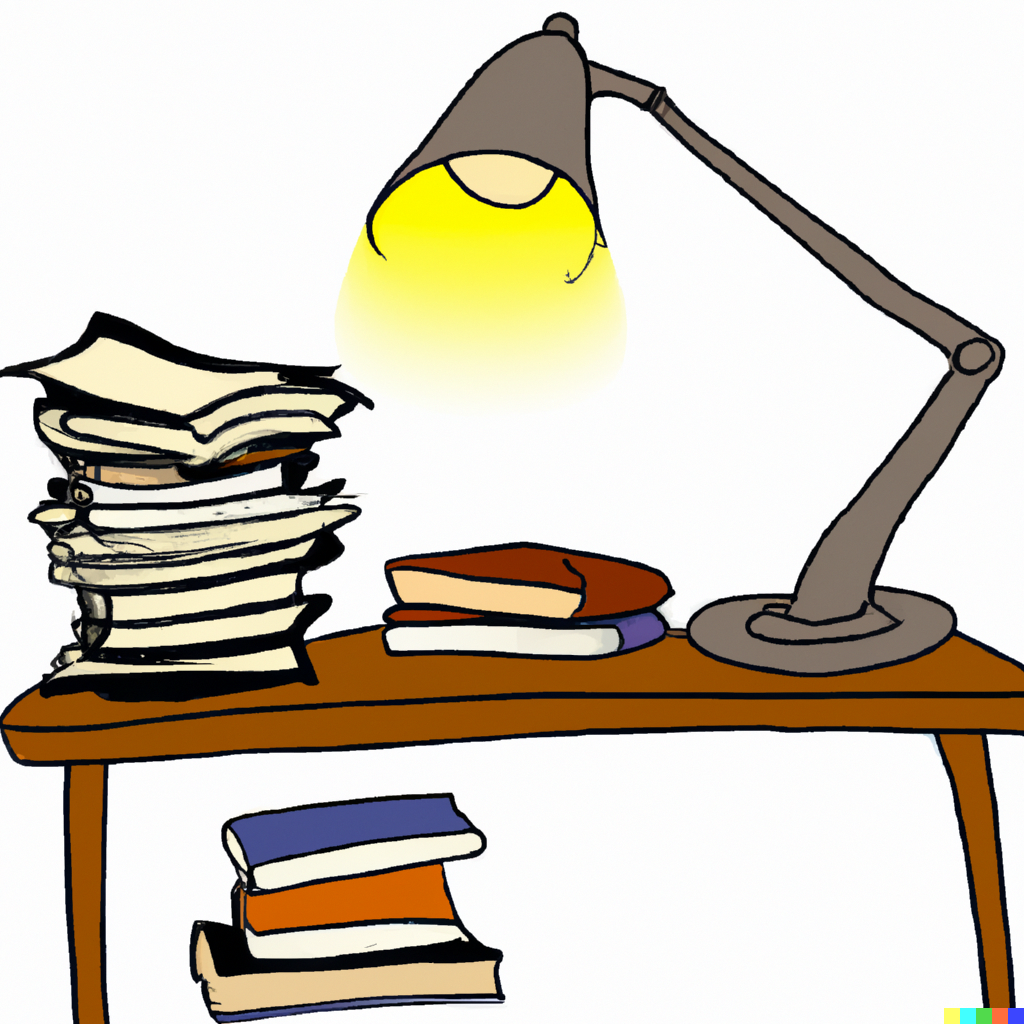
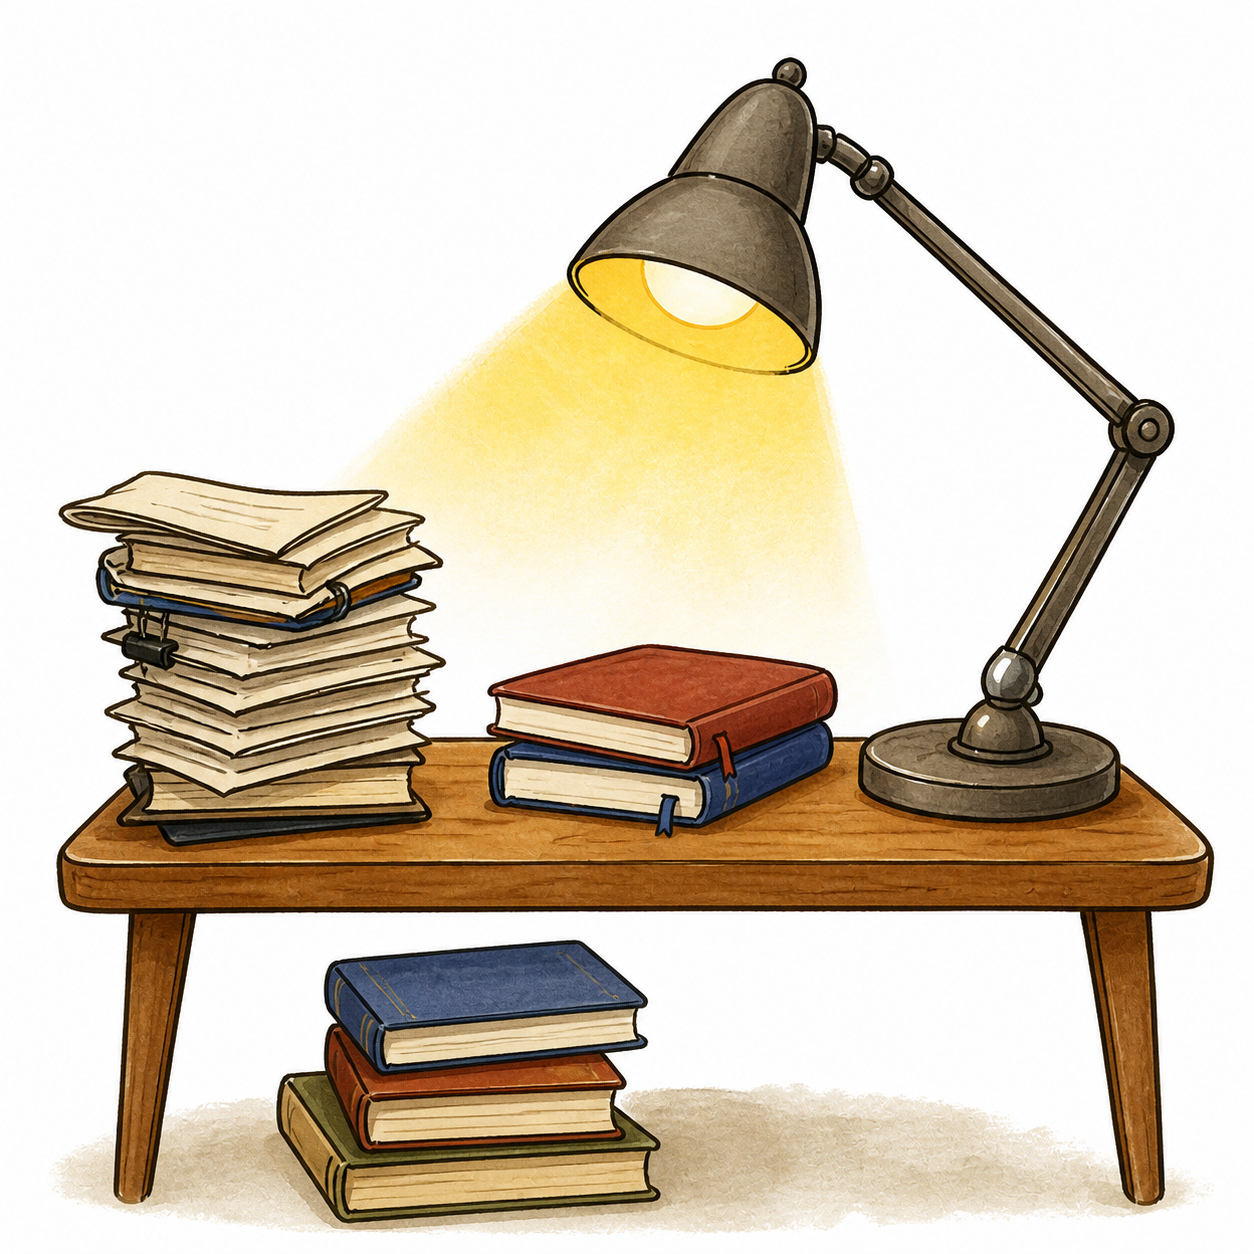
lectures 8 and 9

diff --git a/08-Futures.html b/08-Futures.html
@@ -39,7 +39,7 @@ class: center, middle, inverse, title-slide
 # Futures Contracts
 
 .pull-left[
-![](art/futures.png)
+![](art/08-image.png)
 ]
 
 .pull-right[	
@@ -197,6 +197,9 @@ class: center, middle, inverse, title-slide
 
 .pull-right[
 Tomek &amp; Kaiser, Chapters 12 &amp; 13 ("Price Discovery")
+
+Garcia, Irwin &amp; Smith (2015). [Futures Market Failure?](https://doi.org/10.1093/ajae/aau067). *American Journal of Agricultural Economics, 97*(1): 40-64.
+
 ]
     </textarea>
 <style data-target="print-only">@media screen {.remark-slide-container{display:block;}.remark-slide-scaler{box-shadow:none;}}</style>

diff --git a/09-Risk.html b/09-Risk.html
@@ -38,7 +38,7 @@ class: center, middle, inverse, title-slide
 # Uncertainty and risk
 
 .pull-left[
-![](art/risk.png)
+![](art/09-image.png)
 ]
 
 .pull-right[
@@ -309,7 +309,6 @@ Tomek &amp; Kaiser, Chapter 11 ("Government Intervention in Pricing Agricultural
 
 Norton, Alwang &amp; Masters, Chapter 14 ("Finance, Risk, and Insurance")
 
-Garcia, Irwin &amp; Smith (2015). [Futures Market Failure?](https://doi.org/10.1093/ajae/aau067). *American Journal of Agricultural Economics, 97*(1): 40-64.
 ]
 
     </textarea>

diff --git a/README.md b/README.md
@@ -42,12 +42,13 @@ The lecture slides and readings for the unit on agricultural markets.
 [Lecture 8: Futures Markets and Prices](https://davidubilava.com/agmarkets_slides/08-Futures.html)
 
 - Tomek & Kaiser, Chapters 12 & 13 ("Price Discovery")
+- Garcia, Irwin & Smith (2015). [Futures Market Failure?](https://doi.org/10.1093/ajae/aau067). *American Journal of Agricultural Economics, 97*(1): 40-64.
 
 [Lecture 9: Risk and Insurance](https://davidubilava.com/agmarkets_slides/09-Risk.html)
 
 - Tomek & Kaiser, Chapter 11 ("Government Intervention in Pricing Agricultural Products") & 13 (until "Price Discovery")
 - Norton, Alwang & Masters, Chapter 14 ("Finance, Risk, and Insurance")
-- Garcia, Irwin & Smith (2015). [Futures Market Failure?](https://doi.org/10.1093/ajae/aau067). *American Journal of Agricultural Economics, 97*(1): 40-64.
+
 
 [Lecture 10: International Negotiations and Trade Policy](https://davidubilava.com/agmarkets_slides/10-TradePolicy.html)
 